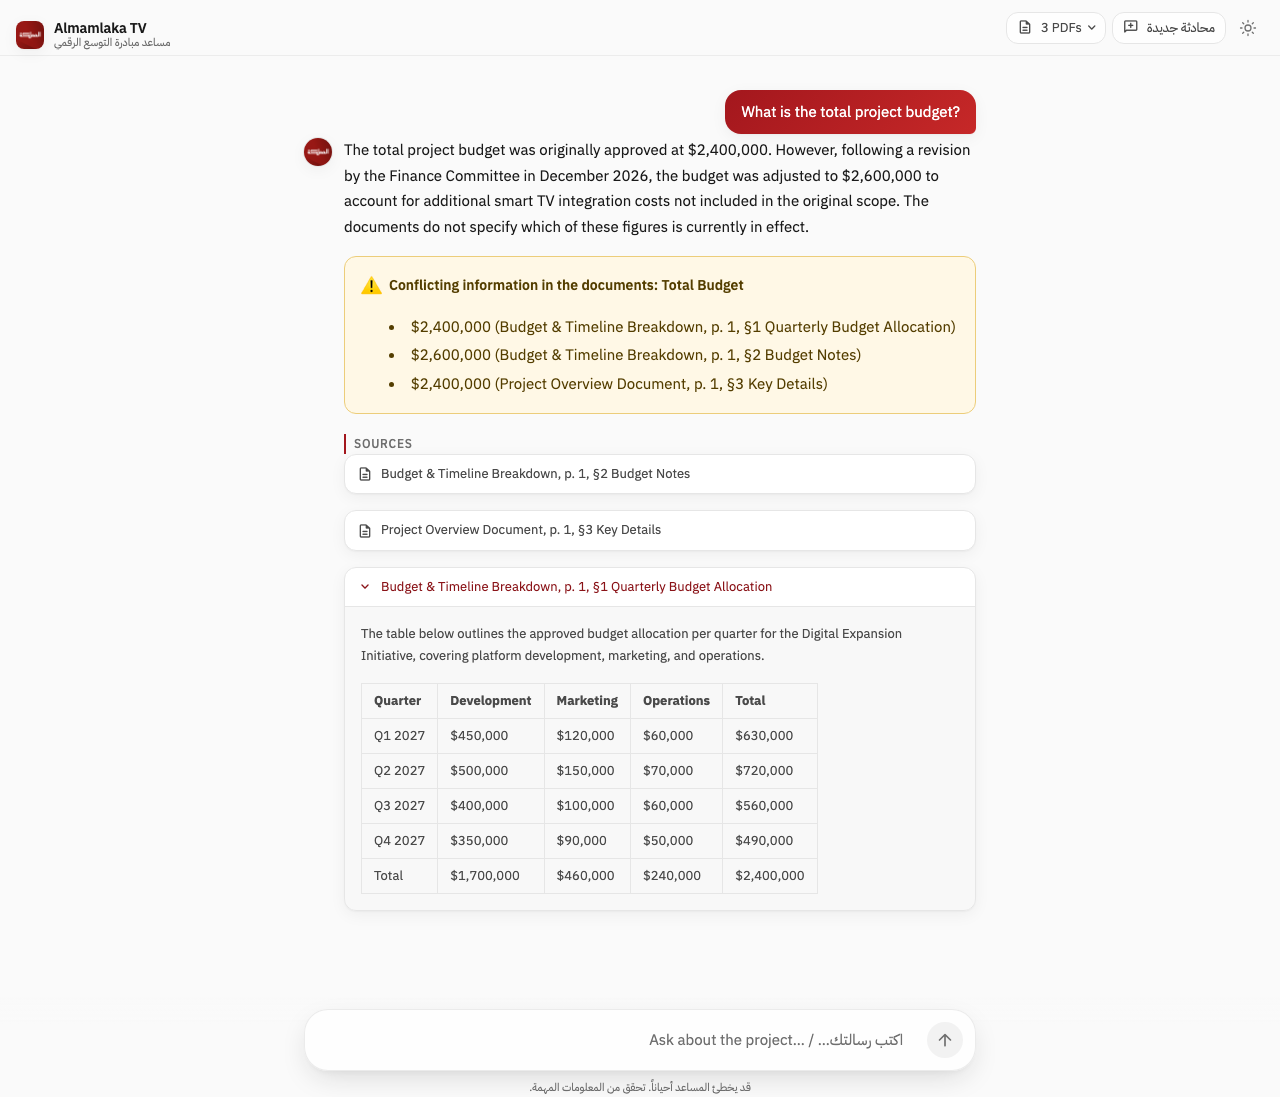
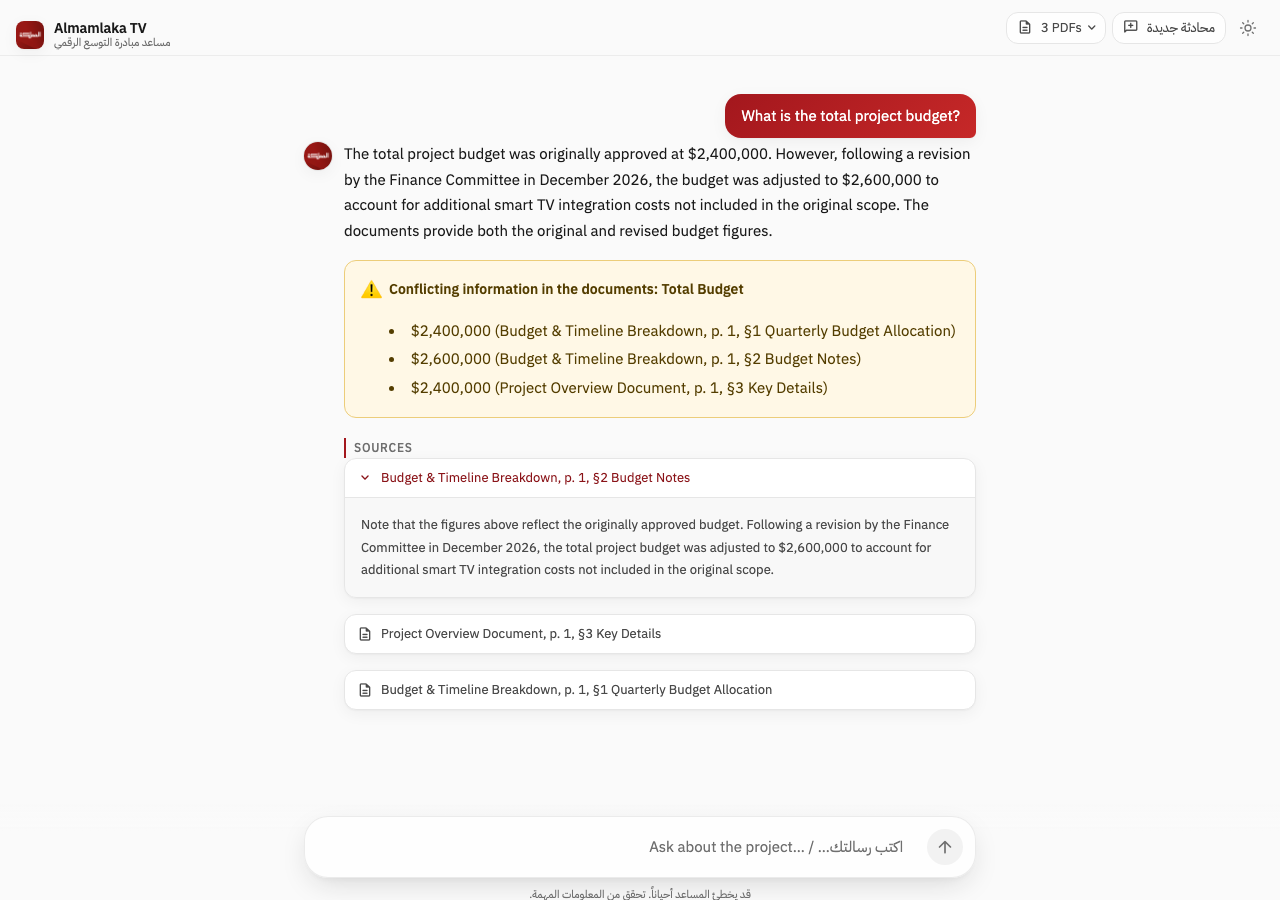
fix: clear empty-state hero on first question, keep mobile new-chat label, test RTL answer

diff --git a/assets/style.css b/assets/style.css
@@ -739,7 +739,17 @@ footer,
 /* ---------- mobile ---------- */
 @media (max-width: 640px) {
   .mm-brand-sub { display: none; }
-  .st-key-clear_chat button p { display: none; }
+  /* Visually hidden but still the button's accessible name ("محادثة جديدة"). */
+  .st-key-clear_chat button [data-testid="stMarkdownContainer"],
+  .st-key-clear_chat button p {
+    position: absolute !important;
+    width: 1px; height: 1px;
+    padding: 0; margin: -1px;
+    overflow: hidden;
+    clip: rect(0, 0, 0, 0);
+    white-space: nowrap;
+    border: 0;
+  }
   .st-key-clear_chat button { padding: 0 8px; }
   [data-testid="stChatInputTextArea"] { font-size: 16px !important; }
   [data-testid="stChatInputTextArea"]::placeholder {

diff --git a/tests/test_app.py b/tests/test_app.py
@@ -99,6 +99,11 @@ def test_arabic_answer_renders_rtl(monkeypatch):
     page = _all_markdown(at.markdown)
     assert "الميزانية الإجمالية" in page
     assert '<div dir="rtl" lang="ar" class="rtl">متى موعد الإطلاق؟</div>' in page
+    # The assistant answer sits in the RTL container (CSS: [class*="st-key-rtl_"]).
+    rtl_answer = at.get_by_key("rtl_answer_1")
+    assert "الميزانية الإجمالية" in _all_markdown(rtl_answer.markdown)
+    with pytest.raises(KeyError):
+        at.get_by_key("ltr_answer_1")
     assert "معلومات متعارضة في الوثائق" in at.warning[0].value
     assert "المصادر" in page
 

diff --git a/app.py b/app.py
@@ -471,8 +471,14 @@ def main() -> None:
     if index is None:
         st.error(INDEX_ERROR_MSG)
 
+    # The empty-state hero always lives in this one slot. When the first
+    # question arrives the slot is re-emitted as an empty element, which
+    # replaces the whole hero block at once, so its chips cannot linger
+    # (dimmed) under the typing indicator while the answer is generated.
+    hero_slot = st.empty()
     if not has_conversation:
-        render_empty_state()
+        with hero_slot.container():
+            render_empty_state()
         return
 
     # Pinned composer first, so it is on screen while the answer is generated.
